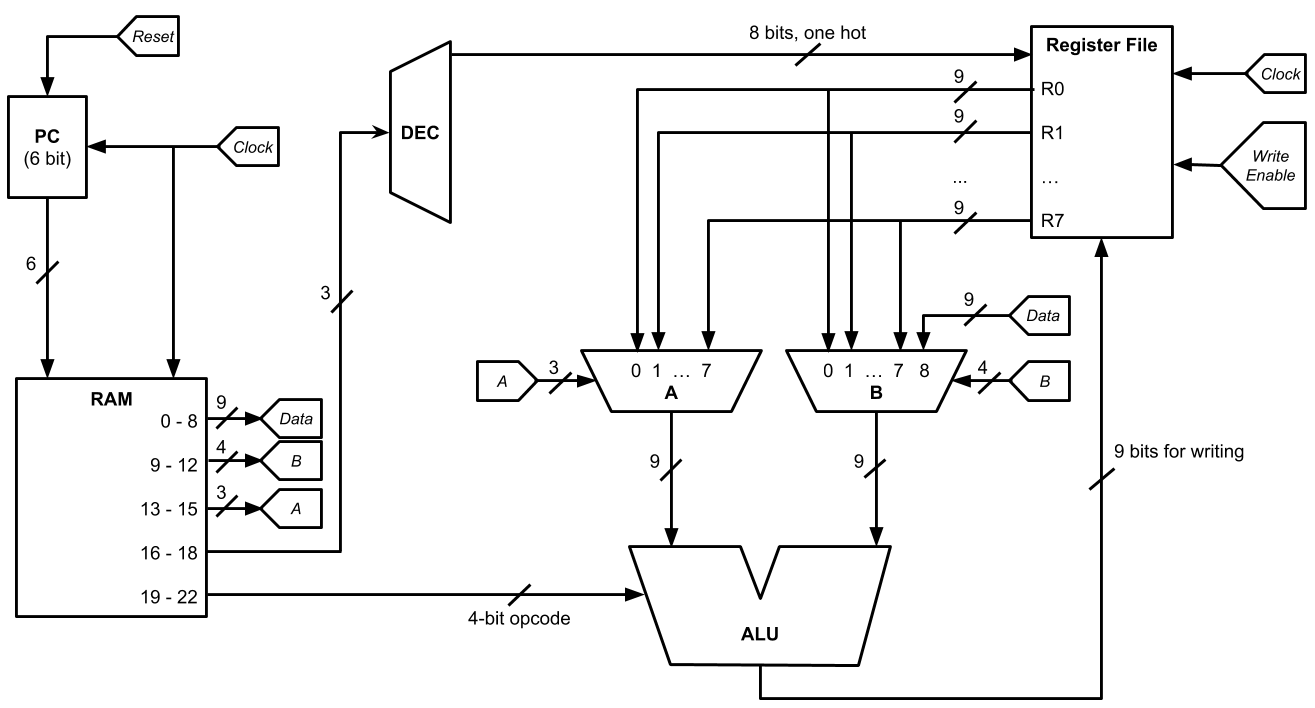
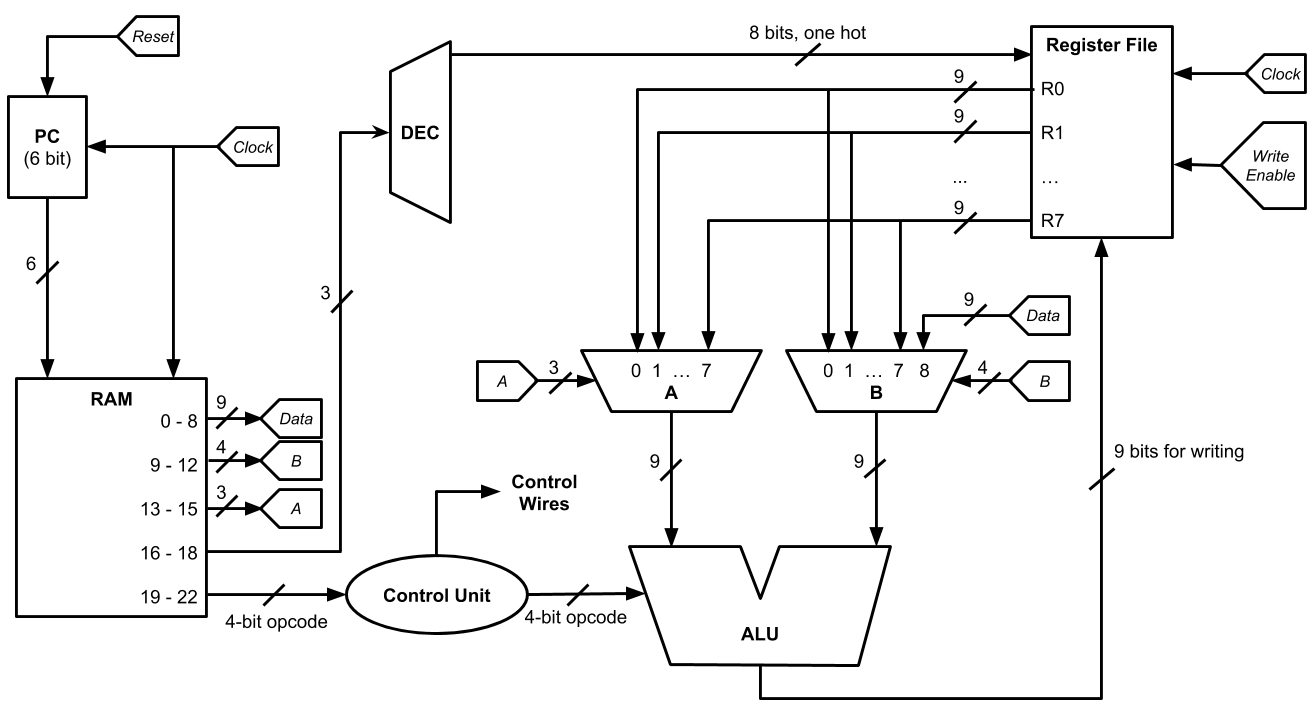
Add extra information on lab 3 control unit. Update diagram.
Hopefully, this is a little bit more clear on why you would need extra logic from the RAM to the ALU. Thanks to the people in office hours who were asking questions about this.

Changed region(s): [[0.2494, 0.7768, 0.4677, 0.9011], [0.343, 0.6525, 0.4365, 0.7458], [0.1559, 0.8701, 0.2494, 0.9011]]

diff --git a/lab3/lab3.rst b/lab3/lab3.rst
@@ -116,7 +116,13 @@ When the *Reset* signal is set to one, the PC should be reset to zero.
 
 **7. Control Unit**
 
-Under construction.
+The control unit contains the logic to set the ALU to perform the correct operation.
+You can pass along the opcode straight to the ALU.
+
+The control wires part is up to you.
+You'll probably want to design logic so that MUX B selects the immediate value when you have an instruction that uses the immediate value.
+Additionally, you'll probably want to pass a value along to the ALU when you're doing a SUB operation, instead of an ADD.
+This way, you'll know when you need to invert the B operand and set C0 to 1, like a subtractor does.
 
 **8. Clock**
 
